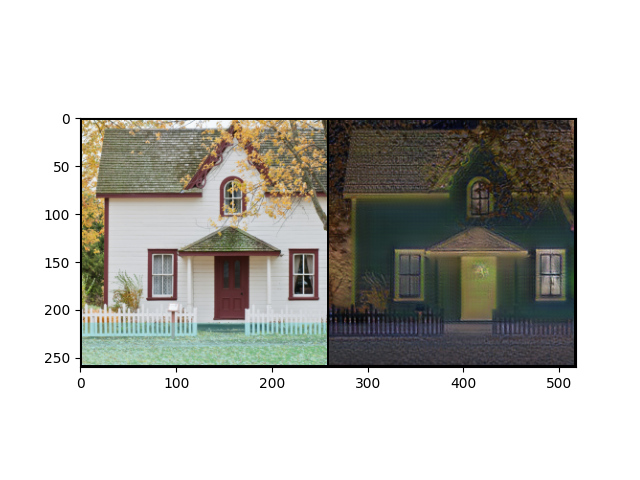
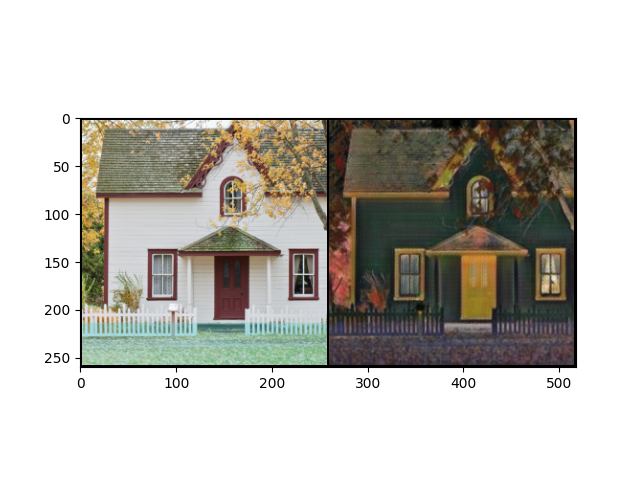
cyclegan 299

Changed region(s): [[0.5, 0.25, 0.9062, 0.75]]

diff --git a/test.py b/test.py
@@ -224,8 +224,8 @@ with torch.no_grad():
     for idx, img in enumerate(test_loader):
         real_b = nn.functional.interpolate(img, size=target_shape)
         real_b = real_b.to(device)
-        #fake_a = gen_BA(real_b)
-        fake_a = gen_AB(real_b)
+        fake_a = gen_BA(real_b)
+        #fake_a = gen_AB(real_b)
         catenation = torch.cat([real_b, fake_a])
         image_tensor = (catenation + 1) / 2
         image_shifted = image_tensor
